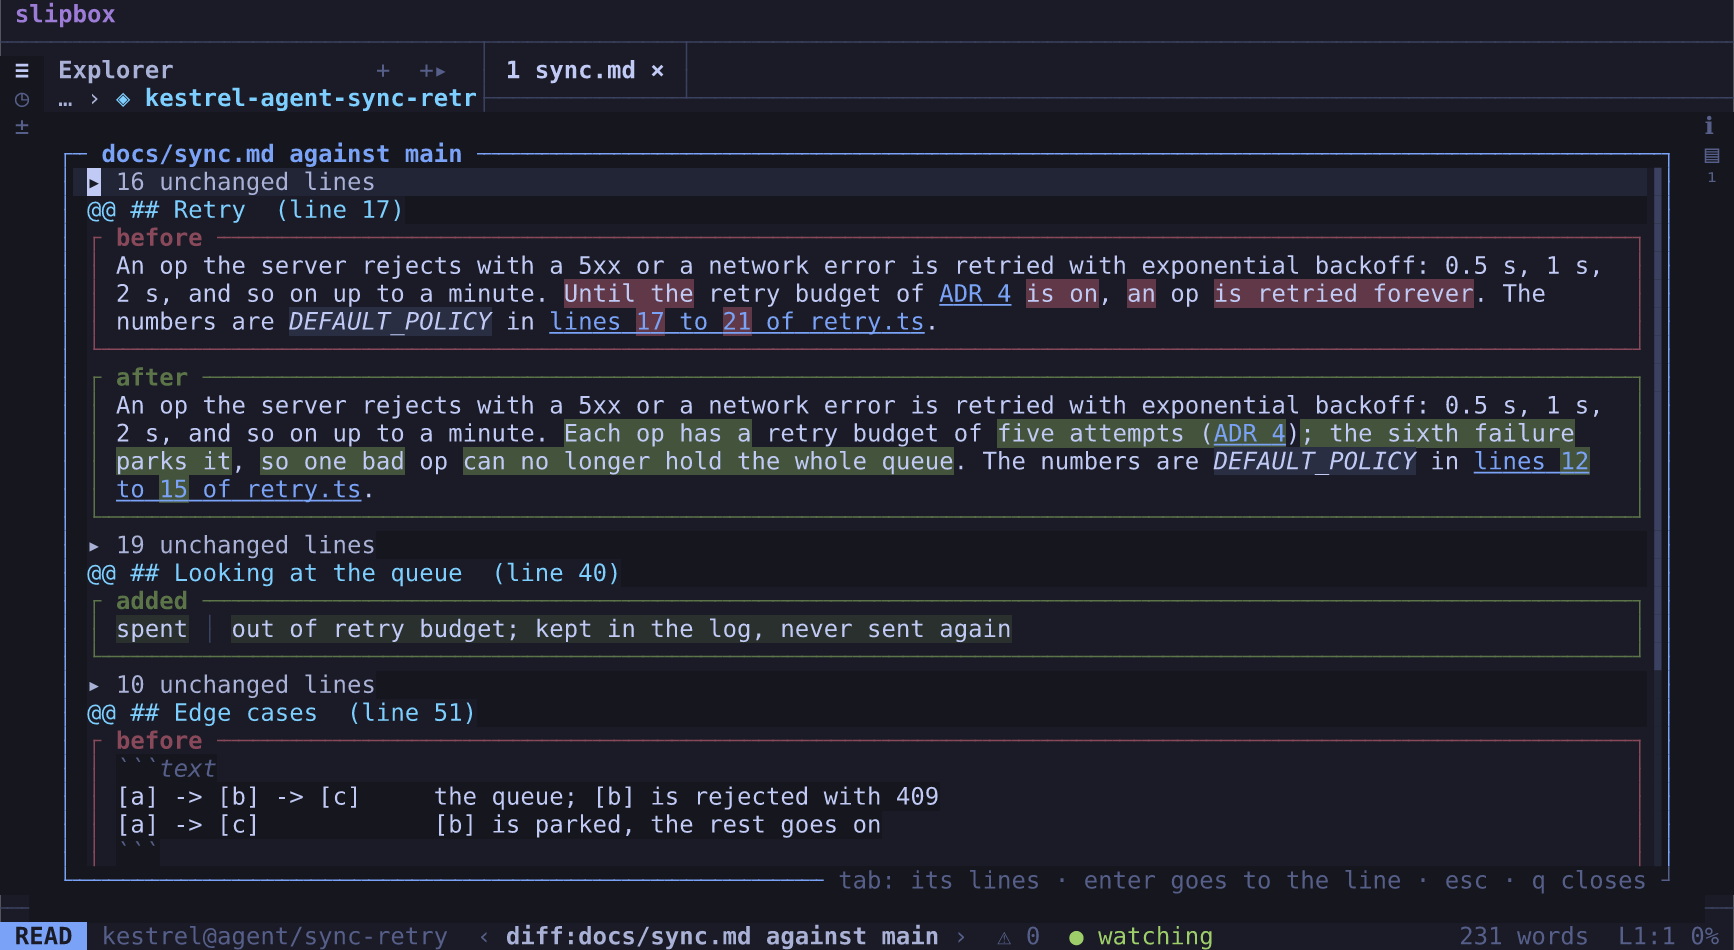
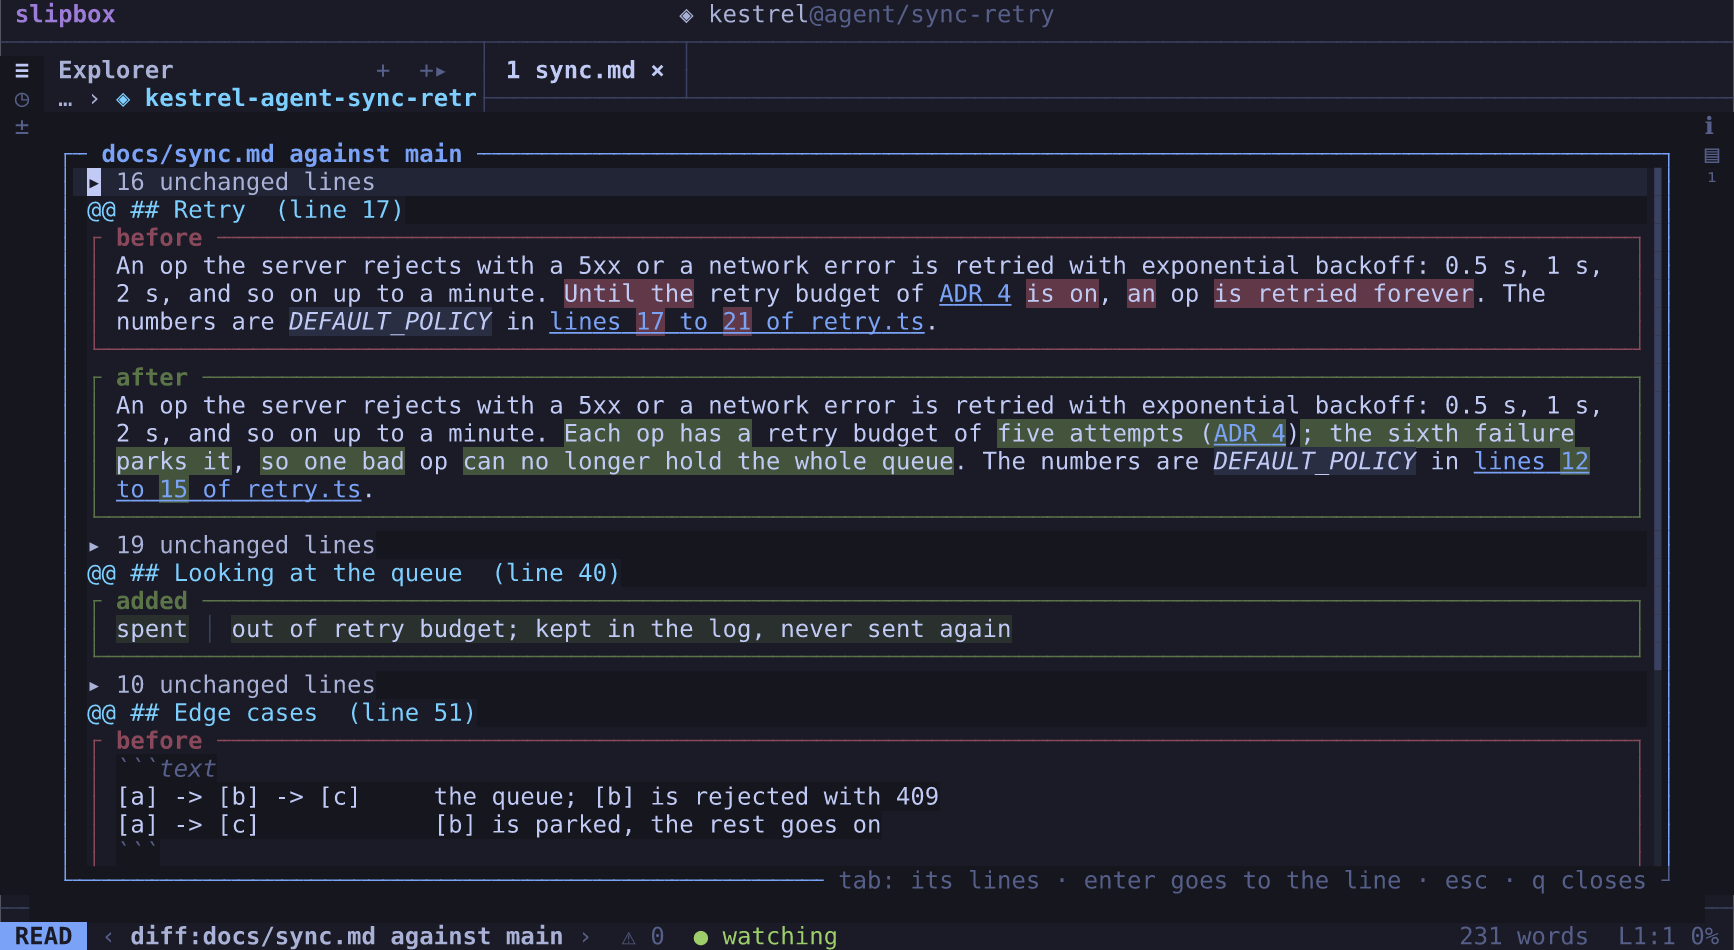
docs(images): the screenshots retaken, where you are on the top bar (WSP-T3)

Changed region(s): [[0.0623, 0.9768, 0.5606, 1.0], [0.4048, 0.0, 0.5917, 0.0305], [0.5917, 0.9768, 0.7163, 1.0]]

diff --git a/tests/terminal/shots/vaults.ts b/tests/terminal/shots/vaults.ts
@@ -44,12 +44,12 @@ export const SHOTS: Shot[] = [
     options: { ...HOME("notes/index.md"), config: NO_EXPLORER },
     take: async (s) => {
       await s.status("index.md");
-      // The link into kestrel followed, then `o` from the peek: kestrel's note in a tab of its own, the status line
-      // naming kestrel and its branch, and its back arrow the way home to notes.
+      // The link into kestrel followed, then `o` from the peek: kestrel's note in a tab of its own, the top bar naming
+      // kestrel and its branch, and the status line's back arrow the way home to notes.
       await follow(s, "architecture. The");
       await s.see("o go there · t keep as a tab", 5000);
       await s.keys("o");
-      await s.status("kestrel");
+      await s.where(/^kestrel\b/);
       await s.status("architecture.md");
       // What going in says, gone: kestrel's own config's warnings, and the message naming where it is.
       await quiet(s);
